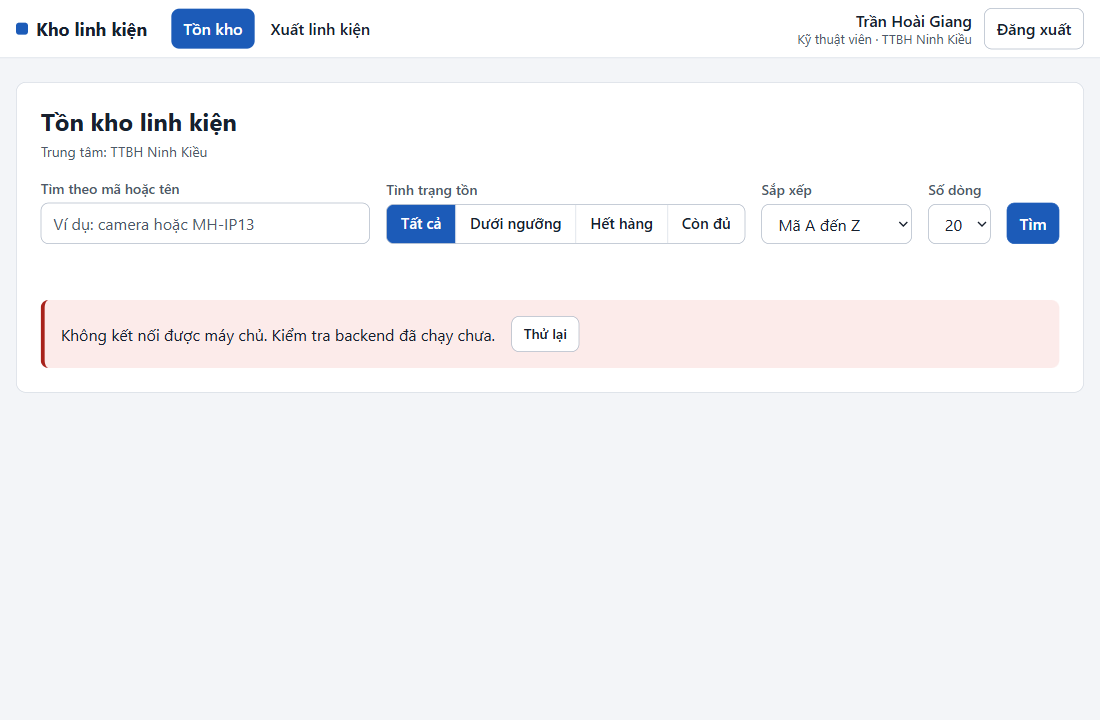
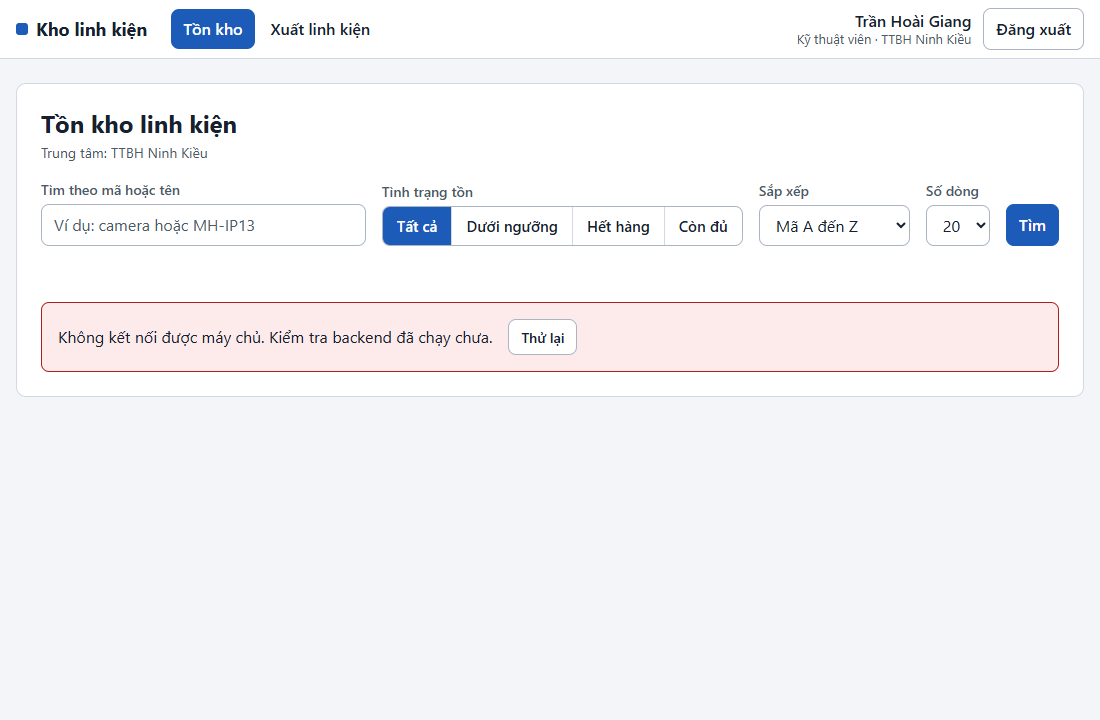
style(web): thay viền trái dày của khung thông báo bằng viền mảnh, chụp lại hai ảnh minh chứng

diff --git a/web/styles.css b/web/styles.css
@@ -110,7 +110,7 @@ tbody tr:hover { background: var(--chinh-nhat); }
 .nhan-het { color: var(--loi); background: var(--loi-nen); }
 
 /* Thông báo: có nhãn chữ ở đầu nên không chỉ dựa vào màu */
-.tb { padding: 12px 16px; border-radius: var(--goc); margin: 16px 0; border-left: 4px solid currentColor; color: var(--chu); }
+.tb { padding: 12px 16px; border-radius: var(--goc); margin: 16px 0; border: 1px solid var(--vien-dam); color: var(--chu); }
 .tb::before { font-weight: 700; }
 .tb-ok { border-color: var(--ok); background: var(--ok-nen); } .tb-ok::before { content: "Thành công: "; color: var(--ok); }
 .tb-canhbao { border-color: var(--canhbao); background: var(--canhbao-nen); } .tb-canhbao::before { content: "Lưu ý: "; color: var(--canhbao); }
@@ -122,7 +122,7 @@ tbody tr:hover { background: var(--chinh-nhat); }
 .ds-rong { text-align: center; padding: 32px 16px; border: 1px dashed var(--vien-dam); border-radius: var(--goc); }
 .ds-rong p { margin: 0 0 12px; }
 .ds-loi { display: flex; gap: 16px; align-items: center; flex-wrap: wrap; padding: 16px; color: var(--chu); background: var(--loi-nen);
-  border-left: 4px solid var(--loi); border-radius: var(--goc); }
+  border: 1px solid var(--loi); border-radius: var(--goc); }
 .ds-loi p { margin: 0; }
 .ds-tai p { margin: 0 0 12px; }
 .xuong { height: 14px; margin-bottom: 12px; border-radius: 4px; background: var(--vien); animation: nhap-nhay 1.4s ease-in-out infinite; }
